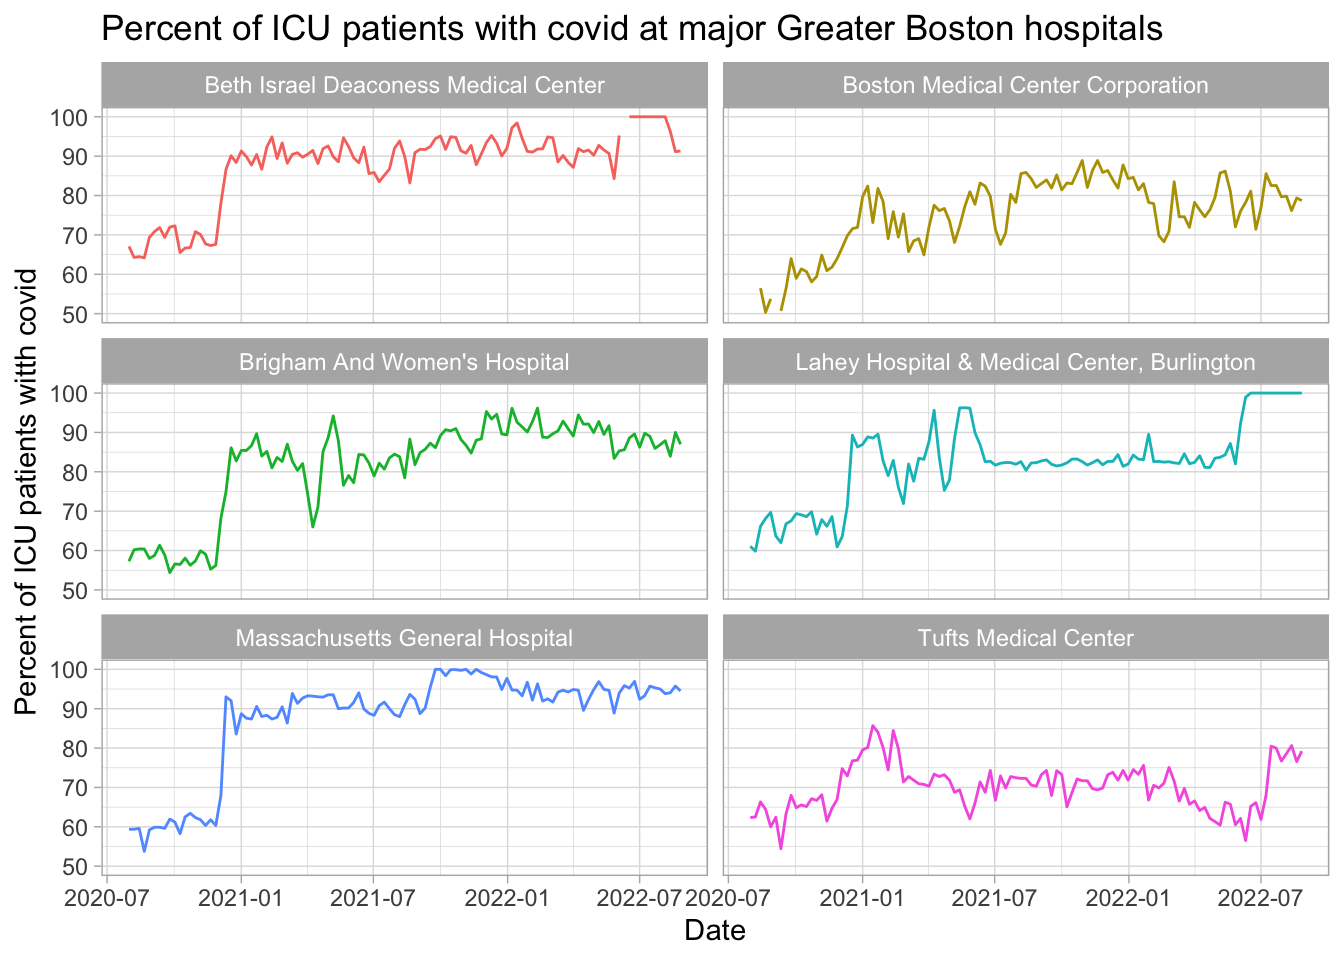
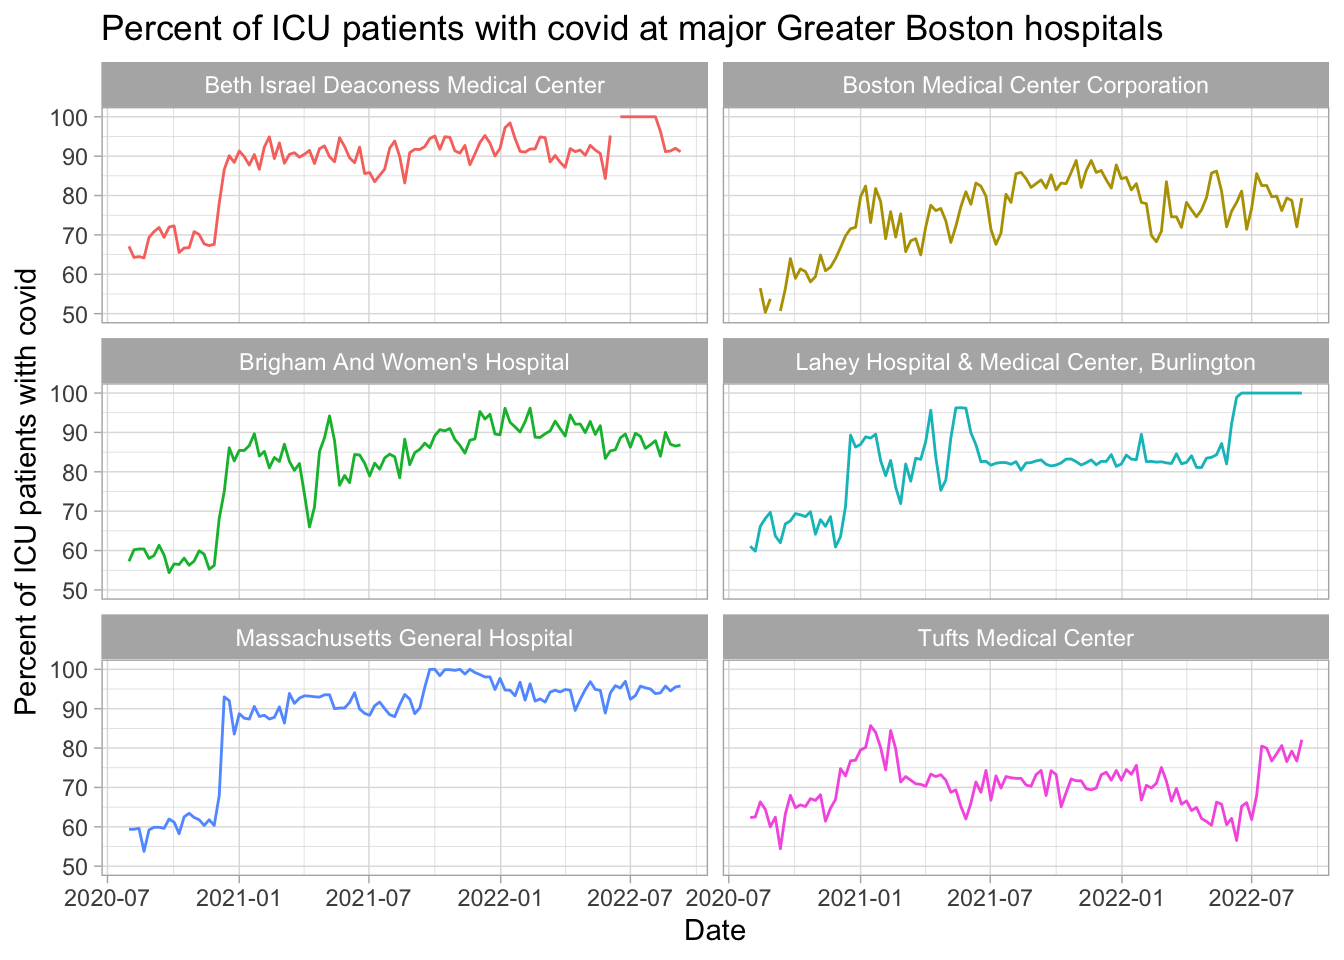
updated data

diff --git a/docs/index.html b/docs/index.html
@@ -314,7 +314,7 @@ it could indicate that many other cases are being missed).</p>
 <p>The US Department of Health and Human Services gives data on hospital
 usage. Here are data of ICU bed availability for hospitals in this area
 with at least 25 staffed ICU beds, using data from the week starting
-2022-08-26.</p>
+2022-09-09.</p>
 <table>
 <colgroup>
 <col width="46%" />
@@ -333,27 +333,27 @@ with at least 25 staffed ICU beds, using data from the week starting
 <tbody>
 <tr class="odd">
 <td align="left">Beth Israel Deaconess Medical Center</td>
-<td align="right">15</td>
-<td align="right">132</td>
-<td align="right">89</td>
+<td align="right">12</td>
+<td align="right">124</td>
+<td align="right">91</td>
 </tr>
 <tr class="even">
 <td align="left">Boston Children’s Hospital</td>
-<td align="right">16</td>
+<td align="right">14</td>
 <td align="right">134</td>
-<td align="right">88</td>
+<td align="right">89</td>
 </tr>
 <tr class="odd">
 <td align="left">Boston Medical Center Corporation</td>
-<td align="right">23</td>
+<td align="right">18</td>
 <td align="right">88</td>
-<td align="right">74</td>
+<td align="right">79</td>
 </tr>
 <tr class="even">
 <td align="left">Brigham And Women’s Hospital</td>
-<td align="right">13</td>
-<td align="right">158</td>
-<td align="right">92</td>
+<td align="right">14</td>
+<td align="right">160</td>
+<td align="right">91</td>
 </tr>
 <tr class="odd">
 <td align="left">Lahey Hospital &amp; Medical Center, Burlington</td>
@@ -364,14 +364,14 @@ with at least 25 staffed ICU beds, using data from the week starting
 <tr class="even">
 <td align="left">Massachusetts General Hospital</td>
 <td align="right">6</td>
-<td align="right">149</td>
+<td align="right">146</td>
 <td align="right">96</td>
 </tr>
 <tr class="odd">
 <td align="left">Tufts Medical Center</td>
-<td align="right">27</td>
-<td align="right">106</td>
-<td align="right">74</td>
+<td align="right">25</td>
+<td align="right">105</td>
+<td align="right">76</td>
 </tr>
 </tbody>
 </table>
@@ -383,7 +383,7 @@ in the state:</p>
 <p>And those intubated:</p>
 <p><img src="index_files/figure-html/unnamed-chunk-7-1.png" width="672" /></p>
 <p>Plotting percentage of ICU patients with covid over time (up to the
-week starting 2022-08-26). Some hospitals have much more frequently
+week starting 2022-09-09). Some hospitals have much more frequently
 updated data than others; some is fairly gappy. This just plots the
 hospitals that average at least 25 staffed <em>adult</em> ICU beds per
 week.</p>

diff --git a/docs/individualhospitals.html b/docs/individualhospitals.html
@@ -309,27 +309,27 @@ usage. Here are data for hospitals in this area.</p>
 <tbody>
 <tr class="odd">
 <td align="left">Beth Israel Deaconess Medical Center</td>
-<td align="right">15</td>
-<td align="right">132</td>
-<td align="right">89</td>
+<td align="right">12</td>
+<td align="right">124</td>
+<td align="right">91</td>
 </tr>
 <tr class="even">
 <td align="left">Boston Children’s Hospital</td>
-<td align="right">16</td>
+<td align="right">14</td>
 <td align="right">134</td>
-<td align="right">88</td>
+<td align="right">89</td>
 </tr>
 <tr class="odd">
 <td align="left">Boston Medical Center Corporation</td>
-<td align="right">23</td>
+<td align="right">18</td>
 <td align="right">88</td>
-<td align="right">74</td>
+<td align="right">79</td>
 </tr>
 <tr class="even">
 <td align="left">Brigham And Women’s Hospital</td>
-<td align="right">13</td>
-<td align="right">158</td>
-<td align="right">92</td>
+<td align="right">14</td>
+<td align="right">160</td>
+<td align="right">91</td>
 </tr>
 <tr class="odd">
 <td align="left">Lahey Hospital &amp; Medical Center, Burlington</td>
@@ -340,14 +340,14 @@ usage. Here are data for hospitals in this area.</p>
 <tr class="even">
 <td align="left">Massachusetts General Hospital</td>
 <td align="right">6</td>
-<td align="right">149</td>
+<td align="right">146</td>
 <td align="right">96</td>
 </tr>
 <tr class="odd">
 <td align="left">Tufts Medical Center</td>
-<td align="right">27</td>
-<td align="right">106</td>
-<td align="right">74</td>
+<td align="right">25</td>
+<td align="right">105</td>
+<td align="right">76</td>
 </tr>
 </tbody>
 </table>
